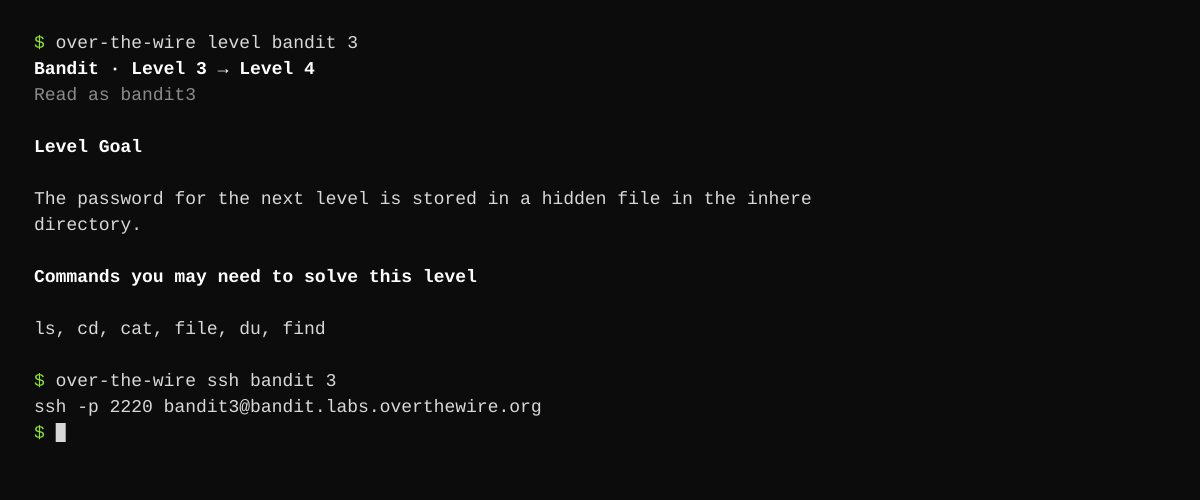
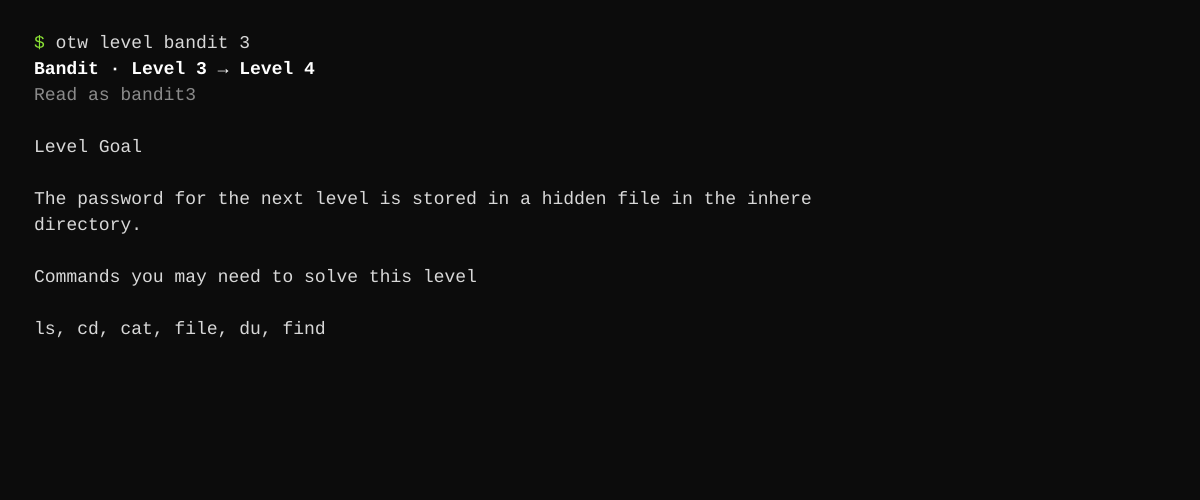
Rename to otw, rewrite README, refresh preview

diff --git a/src/main.rs b/src/main.rs
@@ -21,7 +21,7 @@ use crate::style::{St, Style, visible_width};
 
 #[derive(Parser)]
 #[command(
-    name = "over-the-wire",
+    name = "otw",
     version,
     about = "A Rust CLI for OverTheWire games"
 )]
@@ -745,7 +745,7 @@ fn cmd_ssh(games: &[Game], name: &str, level: Option<&str>, run: bool) -> Result
     }
 
     bail!(
-        "{} has no online server\nit is a released game: see: over-the-wire info {}",
+        "{} has no online server\nit is a released game: see: otw info {}",
         game.name,
         game.key
     )
@@ -1246,7 +1246,7 @@ fn cmd_cache(command: CacheCommand, cfg: &Cfg) -> Result<()> {
         CacheCommand::Fetch { games, all, jobs } => {
             if games.is_empty() && !all {
                 bail!(
-                    "specify at least one game, or --all\n\nexample: over-the-wire cache fetch --all"
+                    "specify at least one game, or --all\n\nexample: otw cache fetch --all"
                 );
             }
             let client = Client::new(cfg.offline, cfg.refresh)?;

diff --git a/src/client.rs b/src/client.rs
@@ -25,7 +25,7 @@ impl Client {
     pub fn new(offline: bool, refresh: bool) -> Result<Self> {
         let http = reqwest::blocking::Client::builder()
             .user_agent(concat!(
-                "over-the-wire/",
+                "otw/",
                 env!("CARGO_PKG_VERSION"),
                 " (+https://overthewire.org/wargames/)"
             ))
@@ -60,7 +60,7 @@ impl Client {
             return match self.cache.read_any(&rel) {
                 Some(body) => Ok(body),
                 None => bail!(
-                    "no cached copy of /{rel}\nrun once without --offline, or use `over-the-wire cache fetch --all`"
+                    "no cached copy of /{rel}\nrun once without --offline, or use `otw cache fetch --all`"
                 ),
             };
         }

diff --git a/src/games.rs b/src/games.rs
@@ -353,7 +353,7 @@ impl Game {
         match self.last {
             Some(last) => Ok(last),
             None => bail!(
-                "{} is a released, offline game and has no level pages\nsee: over-the-wire info {}",
+                "{} is a released, offline game and has no level pages\nsee: otw info {}",
                 self.name,
                 self.key
             ),
@@ -392,7 +392,7 @@ pub fn parse_level(game: &Game, input: &str) -> Result<u32> {
     Ok(number)
 }
 
-/// Parse a level that has a task (`over-the-wire level`).
+/// Parse a level that has a task (`otw level`).
 pub fn parse_task_level(game: &Game, input: &str) -> Result<u32> {
     let number = parse_level_number(game, input)?;
     let range = game.level_range()?;

diff --git a/src/cache.rs b/src/cache.rs
@@ -23,7 +23,7 @@ impl Cache {
     pub fn new() -> Result<Self> {
         let base = dirs::cache_dir().context("could not determine a cache directory")?;
         Ok(Self {
-            root: base.join("over-the-wire"),
+            root: base.join("otw"),
         })
     }
 

diff --git a/README.md b/README.md
@@ -1,37 +1,36 @@
-# over-the-wire
+# otw
 
 A Rust CLI for OverTheWire games
 
-![over-the-wire in a terminal](preview.png)
+![otw in a terminal](preview.png)
 
-## Why it exists
+## Why this exists
 
 The OverTheWire pages are a website: game lists, level tasks, and rules are
 spread across HTML pages, with source files hidden behind a JavaScript call.
-This tool puts the whole path in the terminal, offline when needed, and in
-plain text that pipes and searches.
+This tool puts the whole path in the terminal, offline when needed, and in plain
+text that pipes and searches.
 
 ## How it works
 
-1. `overthewire.org/games.json` provides the game list, level counts, SSH hosts,
-   and ports, including games with special level numbering.
-2. Game, level, and rules pages are downloaded on demand, parsed as HTML, and
-   rendered as width-aware plain text. Headings, lists, and code blocks stay
-   readable without decorative markers.
-3. Some pages load their source with a `renderCode("...")` call. Those files are
-   fetched too and shown inline, so Vortex and Semtex source is present.
-4. Pages are cached under `$XDG_CACHE_HOME/over-the-wire`, normally
-   `~/.cache/over-the-wire`. Level pages last a week and the manifest six hours.
-   Stale copies are used when the network is unavailable.
-5. `search` walks every level page, matches case-insensitively, and prints a
-   snippet around the first hit in each level.
-6. Output is plain text. Every command that makes sense as data has a `--json`
-   form.
+`overthewire.org/games.json` provides the game list, level counts, SSH hosts,
+and ports, including games with special level numbering. Game, level, and rules
+pages are downloaded on demand, parsed as HTML, and rendered as width-aware
+plain text. Headings, lists, and code blocks stay readable without decorative
+markers. Some pages load their source with a `renderCode("...")` call; those
+files are fetched too and shown inline, so Vortex and Semtex source is present.
+
+Pages are cached under `$XDG_CACHE_HOME/otw`, normally `~/.cache/otw`. Level
+pages last a week and the manifest six hours, and stale copies are used when the
+network is unavailable. Search walks every level page, matches
+case-insensitively, and prints a snippet around the first hit in each level.
+Output is plain text, and every command that makes sense as data has a `--json`
+form.
 
 ## Usage
 
-```bash
-over-the-wire [OPTIONS] [COMMAND]
+```text
+otw [OPTIONS] [COMMAND]
 
 Commands:
   games   List every game and its server
@@ -52,38 +51,42 @@ Options:
   -w, --width <COLS>  Wrap output at COLS columns (0 disables wrapping)
   -h, --help          Print help
   -V, --version       Print version
+```
 
-Examples:
-  over-the-wire games
-  over-the-wire level bandit 3
-  over-the-wire ssh bandit 3 --run
-  over-the-wire search cron --game bandit
-  over-the-wire --offline level bandit 30
-  over-the-wire cache fetch --all
+Typical calls:
+
+```bash
+otw games
+otw level bandit 3
+otw ssh bandit 3 --run
+otw search cron --game bandit
+otw --offline level bandit 30
+otw cache fetch --all
 ```
 
 ## Notes
 
-- Game names are case-insensitive. Levels accept `4`, `bandit4`, `level4`, or
-  `l4`. `ssh` with no level defaults to level 0. Natas is web based, so
-  `over-the-wire ssh natas 3` prints the level URL instead of an SSH command.
-- `level` takes the level you are logged in as. `over-the-wire level bandit 3`
-  shows the task for bandit3, which is page 4. `level bandit` is shorthand for
-  `level bandit 0`, the login page and first task. Krypton, Vortex, and Natas
-  use the same number for both.
-- `search` exits `1` when nothing matches, like `grep`. Other errors also exit
-  `1`.
-- The cache is safe to delete. `cache status` shows its location, size, and age.
-- The game notes, goals, and source files belong to OverTheWire and remain with
-  their authors. The tool fetches them at runtime and does not redistribute
-  them.
+Game names are case-insensitive. Levels accept `4`, `bandit4`, `level4`, or
+`l4`. `ssh` with no level defaults to level 0. Natas is web based, so
+`otw ssh natas 3` prints the level URL instead of an SSH command.
+
+`level` takes the level you are logged in as. `otw level bandit 3` shows the
+task for bandit3, which is page 4. `level bandit` is shorthand for
+`level bandit 0`, the login page and first task. Krypton, Vortex, and Natas use
+the same number for both.
+
+`search` exits `1` when nothing matches, like `grep`. Other errors also exit
+`1`. The cache is safe to delete, and `cache status` shows its location, size,
+and age. The game notes, goals, and source files belong to OverTheWire and
+remain with their authors; the tool fetches them at runtime and does not
+redistribute them.
 
 ## Install
 
 **Requirements:** Rust 1.88+ and `git`.
 
 ```bash
-cargo install --git https://github.com/batusaribay/over-the-wire.git --locked
+cargo install --git https://github.com/batusaribay/otw.git --locked
 ```
 
 ## License
